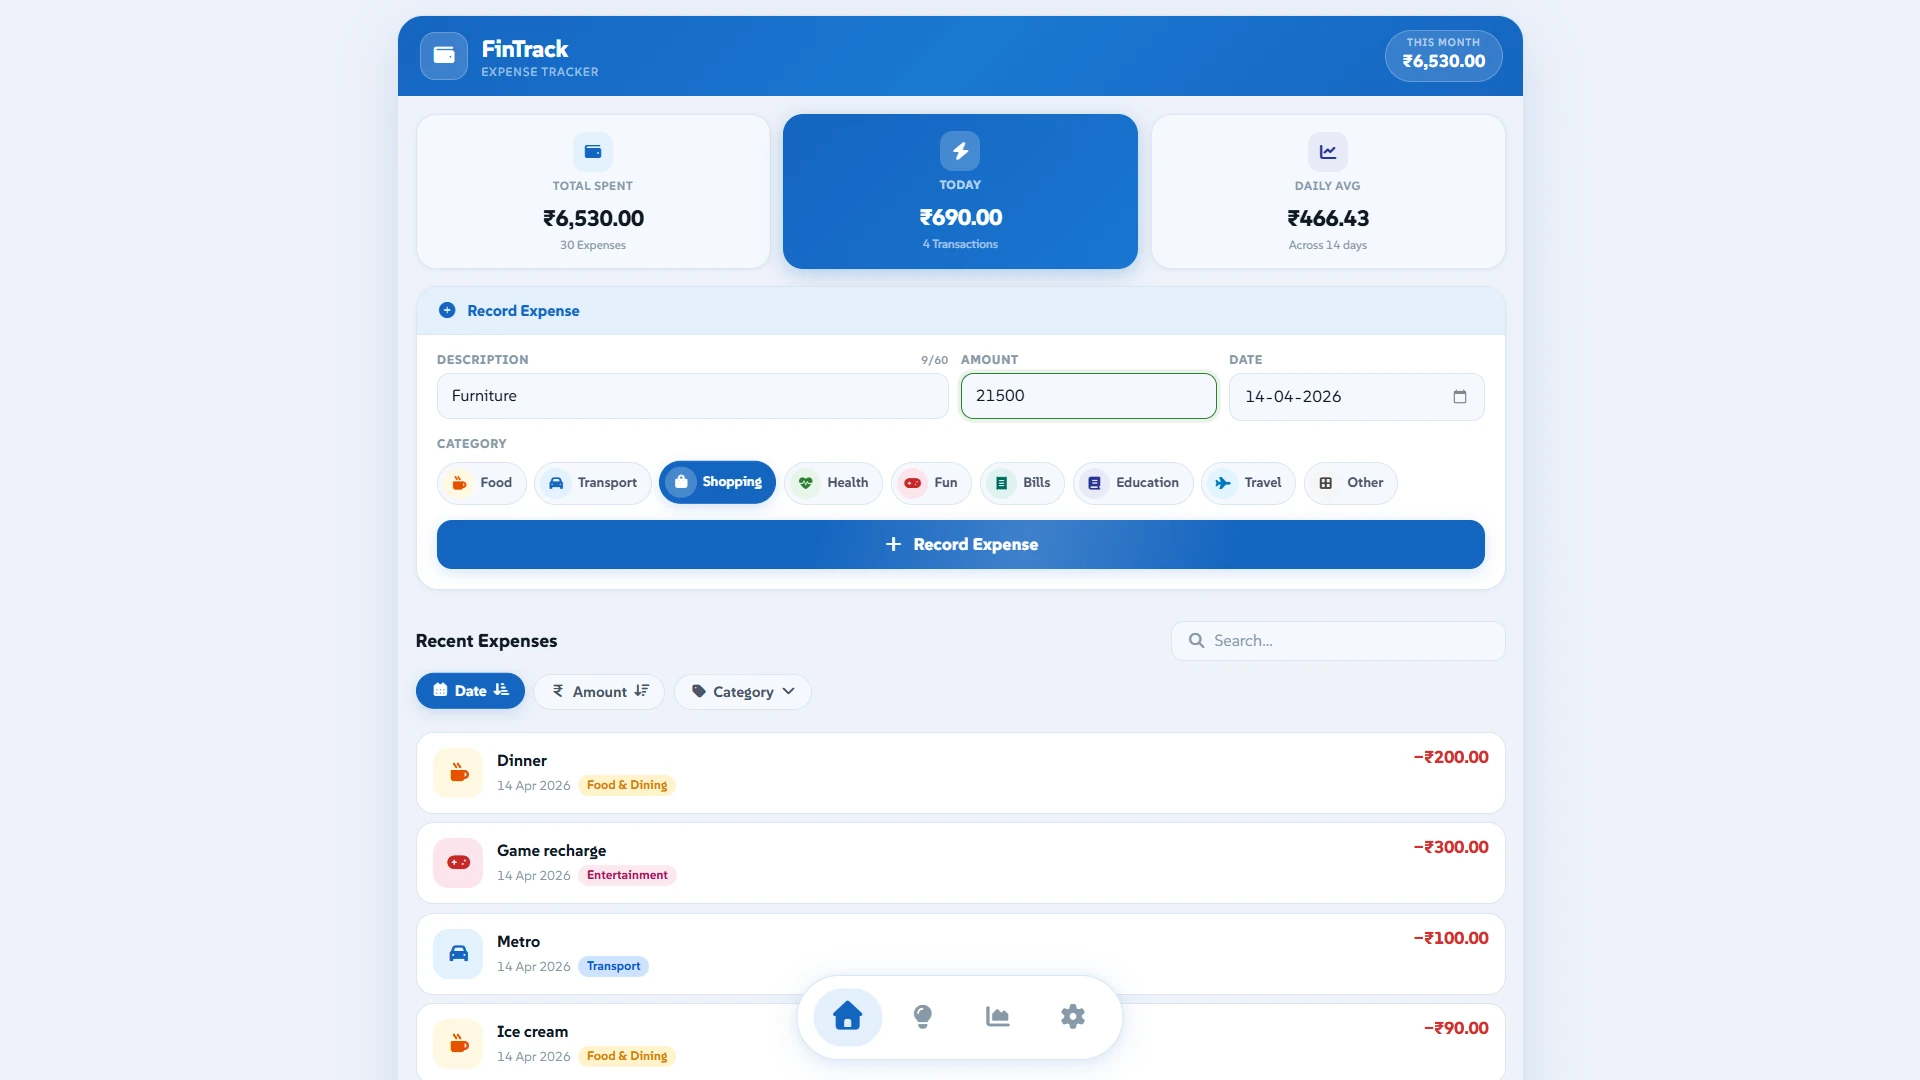
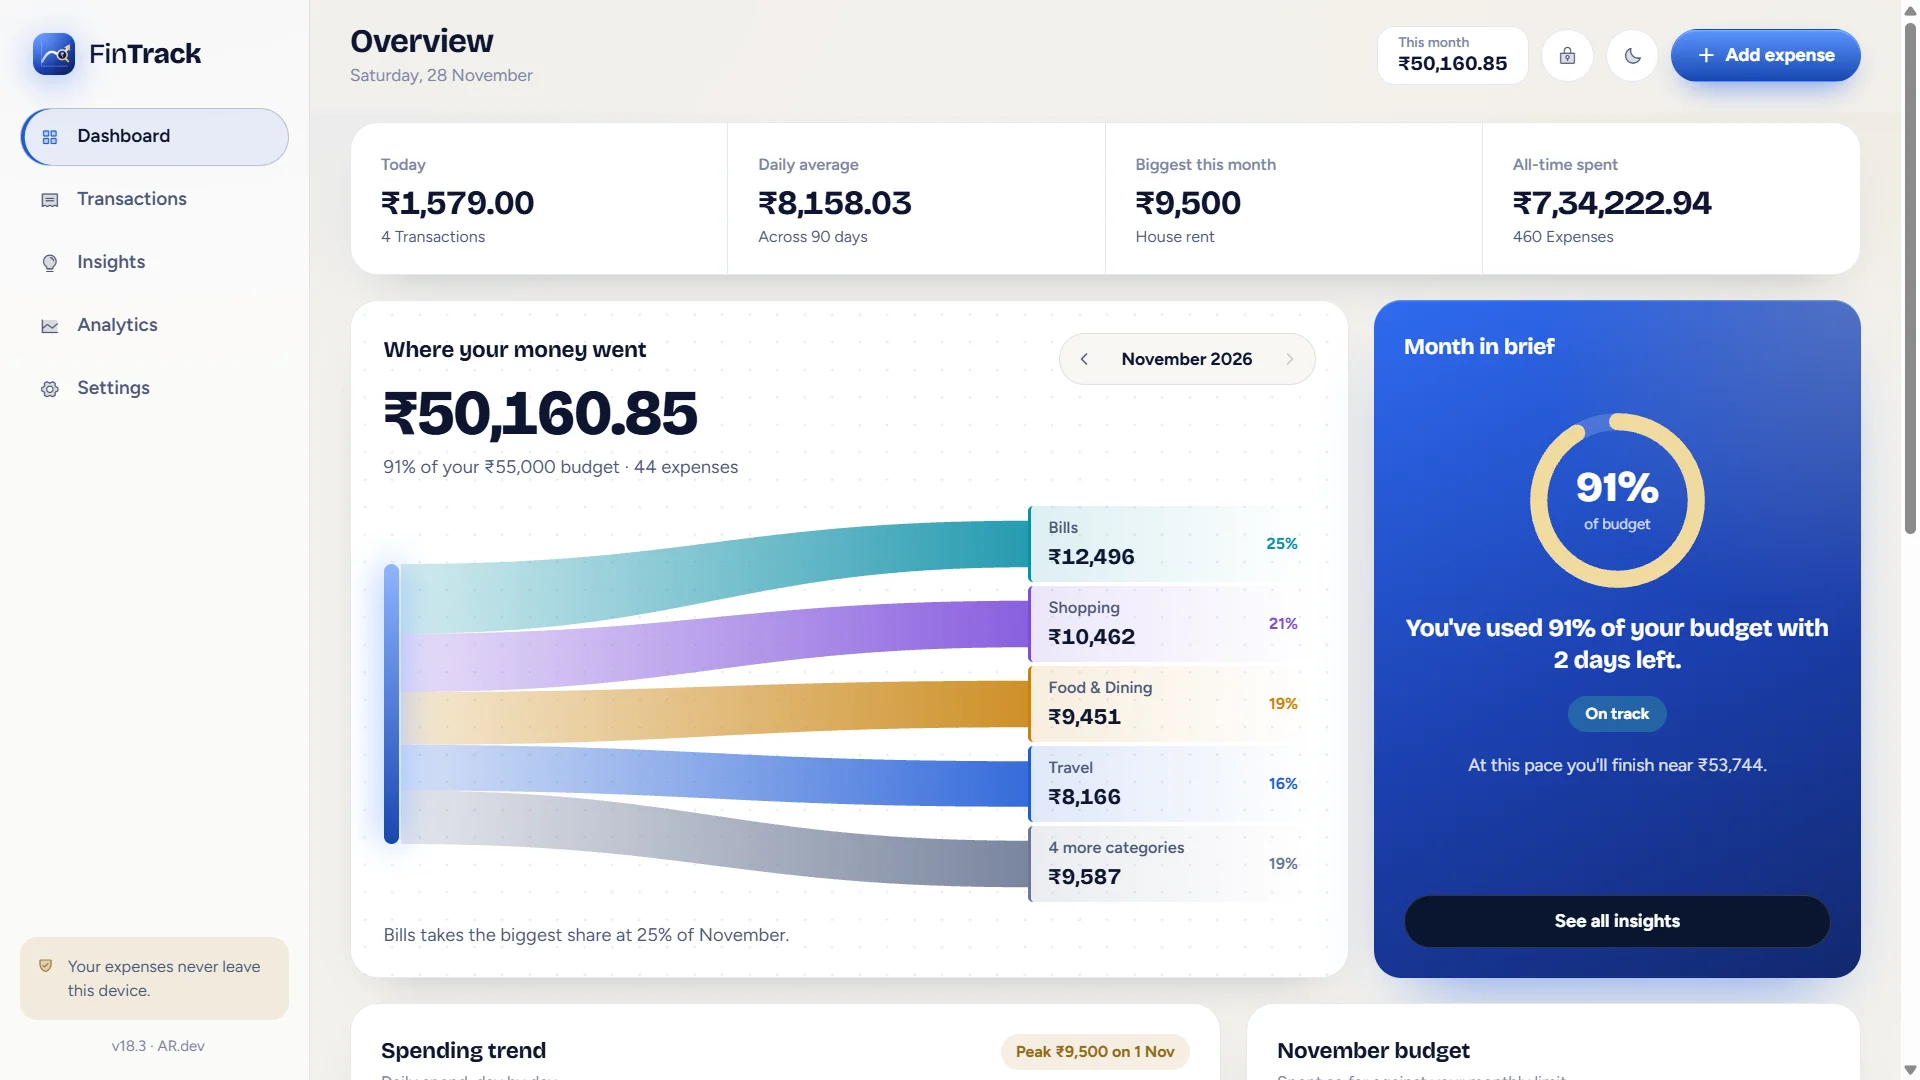
Update FinTrack

diff --git a/js/case-studies.js b/js/case-studies.js
@@ -32,7 +32,7 @@
       meta: [
         ["Role", "Designer & developer"],
         ["Timeline", "Oct 2024 - present"],
-        ["Version", "v17.7"],
+        ["Version", "v18.0"],
         ["Platforms", "Web, PWA, Android APK"],
       ],
       image: {
@@ -102,7 +102,7 @@
         title: "Built by hand,|without a framework.",
         body: [
           "I launched FinTrack in October 2024, five months after moving from a phone to a laptop. It is written in plain HTML, CSS and JavaScript with no framework and no build step, so every piece of behavior is code I wrote myself and can explain.",
-          "It has grown through many versions. Version 16 refined the card hierarchy and spacing. Version 17 was a complete redesign, with the four-tab app shell, light and dark themes, PIN security with auto-lock, the insights engine, the weekly comparison chart and CSV/JSON import. It is now at v17.7.",
+          "It has grown through many versions. Version 16 refined the card hierarchy and spacing. Version 17 was a complete redesign, with the four-tab app shell, light and dark themes, PIN security with auto-lock, the insights engine, the weekly comparison chart and CSV/JSON import. It is now at v18.",
         ],
         decisions: [
           {
@@ -143,7 +143,7 @@
       outcome: {
         body: "FinTrack is the project I am proudest of: a complete app, from design to security to offline support, built without a framework.",
         stats: [
-          { value: "v17.7", label: "Current version" },
+          { value: "v18.0", label: "Current version" },
           { value: "6", label: "Insight cards" },
           { value: "3", label: "Chart types" },
           { value: "SHA-256", label: "PIN hashing" },

diff --git a/index.html b/index.html
@@ -574,7 +574,7 @@
               </ul>
               <div class="work-actions">
                 <a class="work-case" href="page/projects.html#case-fintrack">
-                  Read case study
+                  Read Case
                   <svg
                     xmlns="http://www.w3.org/2000/svg"
                     class="lucide lucide-arrow-right"
@@ -656,7 +656,7 @@
               </ul>
               <div class="work-actions">
                 <a class="work-case" href="page/projects.html#case-noviq">
-                  Read case study
+                  Read Case
                   <svg
                     xmlns="http://www.w3.org/2000/svg"
                     class="lucide lucide-arrow-right"
